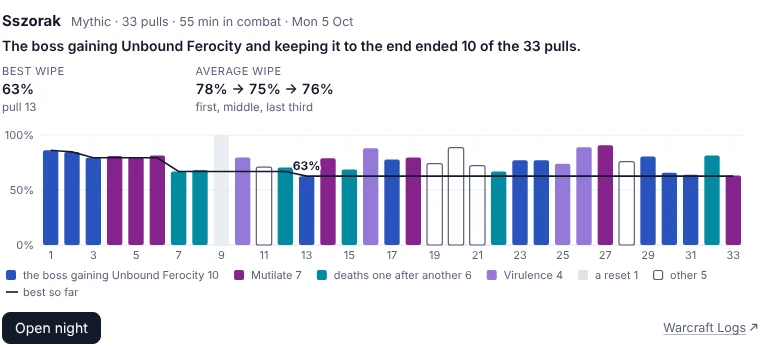
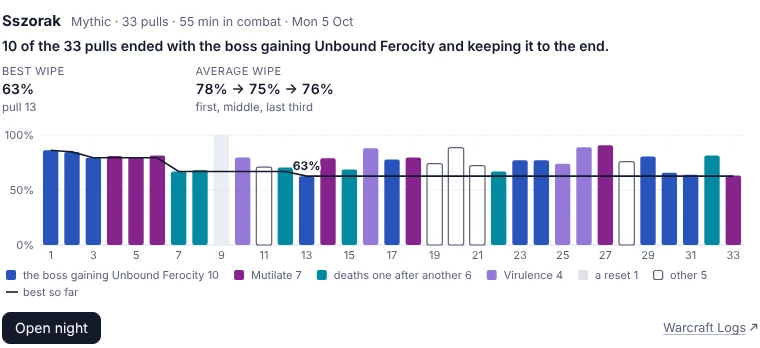
fix(agent): a night's headline reads as a sentence for every way a pull ends
"The boss gaining Unbound Ferocity and keeping it to the end ended 10 of the 33 pulls." read as "keeping it to
the end ended 10", and "Many dying at once, no killing blow ended 3 of the 12 pulls." as if no killing blow had.
The count now leads: "10 of the 33 pulls ended with ...", which progress's words for an ending all read after.
One pull is "Pull 7 ended with ...", a night of pulls called off no longer says "none past a reset", and a first
pull still going says so. The headline is unreleased, so the changelog keeps its lines; their three pictures of
a night are taken again.

Changed region(s): [[0.0, 0.1149, 0.8171, 0.1724]]

diff --git a/tests/core/test_views.py b/tests/core/test_views.py
@@ -173,7 +173,7 @@ async def test_the_raid_night_view_states_what_progress_states(recorded):
     ends = ", ".join(f"{w} {n}" for w, n in data["ends"])
     assert f"(pull_summary's \"Ended by\"): {ends}." in text
     what, most = data["ends"][0]  # the card's headline: what ended the most pulls, counted over all of them
-    assert data["headline"]["text"] == f"{what[0].upper()}{what[1:]} ended {most} of the {len(data['pulls'])} pulls."
+    assert data["headline"]["text"] == f"{most} of the {len(data['pulls'])} pulls ended with {what}."
     assert "first third {:.1f}, middle {:.1f}, last third {:.1f}".format(*data["thirds"]) in text
 
 
@@ -1884,13 +1884,38 @@ def test_a_nights_headline_counts_what_ended_the_most_pulls_over_all_of_them():
     row = lambda n, **over: {"pull": n, "kill": False, "live": False, "reset": False} | over  # noqa: E731
     night = [row(1), row(2, reset=True), row(3), row(4)]
     ends = [("Mutilate killing many", 2), ("a reset", 1), ("deaths one after another", 1)]
-    assert views.night_headline(night, ends) == {"text": "Mutilate killing many ended 2 of the 4 pulls.", "kind": ""}
+    assert views.night_headline(night, ends) == {"text": "2 of the 4 pulls ended with Mutilate killing many.",
+                                                 "kind": ""}
     going = [*night, row(5, live=True)]  # a pull still going hasn't ended
-    assert views.night_headline(going, ends)["text"] == "Mutilate killing many ended 2 of the 4 pulls."
+    assert views.night_headline(going, ends)["text"] == "2 of the 4 pulls ended with Mutilate killing many."
     assert views.night_headline([*night, row(5, kill=True)], ends)["text"] == "Killed on pull 5 of 5."
     assert views.night_headline([row(1, kill=True)], [("a kill", 1)])["text"] == "Killed on the first pull."
     assert views.night_headline([row(1, reset=True), row(2, reset=True)], [("a reset", 2)])["text"] == (
         "2 pulls, none past a reset.")
+
+
+def test_a_nights_headline_reads_as_a_sentence_for_every_way_a_pull_ends():
+    """What ended the pulls is said in progress's own words for it (ending.kind_of_end), which are not all a
+    sentence's subject: "Many dying at once, no killing blow ended 3 of the 12 pulls" read as if no killing blow
+    had ended them, and the pinned night as "keeping it to the end ended 10". One pull is not "1 of the 1 pull",
+    and a pull called off went past a reset."""
+    row = lambda n, **over: {"pull": n, "kill": False, "live": False, "reset": False} | over  # noqa: E731
+    said = lambda rows, *ends: views.night_headline(rows, list(ends))["text"]  # noqa: E731
+    dozen = [row(n) for n in range(1, 13)]
+    assert said(dozen, ("many dying at once, no killing blow", 3), ("half the raid dead", 2)) == (
+        "3 of the 12 pulls ended with many dying at once, no killing blow.")
+    assert said(dozen, ("the boss gaining Unbound Ferocity and keeping it to the end", 10)) == (
+        "10 of the 12 pulls ended with the boss gaining Unbound Ferocity and keeping it to the end.")
+    assert said(dozen, ("half the raid dead", 5)) == "5 of the 12 pulls ended with half the raid dead."
+    assert said(dozen, ("deaths one after another", 7)) == "7 of the 12 pulls ended with deaths one after another."
+    assert said([row(7)], ("Mutilate killing many", 1)) == "Pull 7 ended with Mutilate killing many."
+    assert said([row(7), row(8, live=True)], ("Mutilate killing many", 1)) == (
+        "Pull 7 ended with Mutilate killing many.")
+    # no mechanic ended a pull: the counts as progress lists them, and "none past a reset" only where that is so
+    assert said([row(1), row(2), row(3, reset=True)], ("called off", 2), ("a reset", 1)) == (
+        "3 pulls: called off 2, a reset 1.")
+    assert said([row(1, reset=True), row(2, live=True)], ("a reset", 1)) == "2 pulls: a reset 1, still going 1."
+    assert said([row(4, live=True)]) == "Pull 4 is still going."
 
 
 def test_a_players_headline_is_the_weightiest_note_and_their_nights_what_would_have_kept_them_alive():
@@ -1993,7 +2018,7 @@ async def test_asked_about_the_whole_night_the_card_leads_with_its_bosses(monkey
                                               ["Torvek's Forge · 2 pulls, best 42%", "chip on"]]
         under = "document.querySelector('.chips.bosses + [data-panel] h1').textContent"  # then that boss's card
         assert await view.evaluate(under) == "Torvek's Forge"
-        assert (await view.evaluate(CARD))["lead"] == ["Slag Wave killing many ended 2 of the 2 pulls."]
+        assert (await view.evaluate(CARD))["lead"] == ["2 of the 2 pulls ended with Slag Wave killing many."]
         assert not errors
     async with drawn("progress", {"report": night["report"], "boss": "Torvek"}) as (view, errors):
         assert await view.evaluate(chips) == [] and not errors

diff --git a/src/wipebot/core/report/views.py b/src/wipebot/core/report/views.py
@@ -987,17 +987,26 @@ QUIET_ENDS = ("a reset", "a kill", "still going", ALIVE)  # the endings no mecha
 def night_headline(rows: list[dict], ends: list[tuple[str, int]]) -> dict:
     """The raid's night on a boss in one sentence of progress's facts: the kill and on which pull, else what ended
     the most pulls (its "Ended by" counted over the pulls that ended, resets among them: the one count the card
-    states), else how far the best wipe got."""
+    states), in progress's words for it after "ended with", which every one of them reads after. Where no mechanic
+    ended a pull, the pulls as progress counts them."""
     ended = [r for r in rows if not r["live"]]
     kill = next((r for r in rows if r["kill"]), None)
     if kill:
         return _headline("Killed on the first pull." if len(rows) == 1
                          else f"Killed on pull {kill['pull']} of {len(rows)}.")
     top = next(((what, k) for what, k in ends if what not in QUIET_ENDS), None)
+    if top and len(ended) == 1:
+        return _headline(f"Pull {ended[0]['pull']} ended with {top[0]}.")
     if top:
-        what = top[0][0].upper() + top[0][1:]
-        return _headline(f"{what} ended {top[1]} of the {plural(len(ended), 'pull')}.")
-    return _headline(f"{plural(len(rows), 'pull')}, none past a reset.")
+        return _headline(f"{top[1]} of the {len(ended)} pulls ended with {top[0]}.")
+    if not ended:
+        return _headline(f"Pull {rows[-1]['pull']} is still going.")
+    if all(r["reset"] for r in rows):
+        return _headline(f"{plural(len(rows), 'pull')}, none past a reset.")
+    counts = [f"{what} {k}" for what, k in ends]
+    if live := len(rows) - len(ended):
+        counts.append(f"still going {live}")
+    return _headline(f"{plural(len(rows), 'pull')}: {', '.join(counts)}.")
 
 
 def player_headline(out: dict) -> dict:
